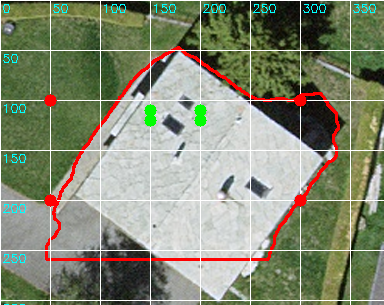
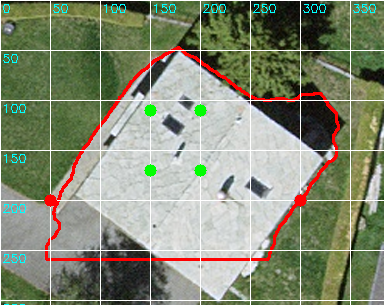
Save local changes before sync

diff --git a/internvl3_points_test.py b/internvl3_points_test.py
@@ -7,26 +7,43 @@ import re
 import cv2
 import numpy as np
 import os
+#!/usr/bin/env python3
+import os
+
+# ============================================================
+# CACHE PATH FIX — must be set before importing transformers
+# ============================================================
+os.environ["HF_HOME"] = "/data/hf_cache"
+os.environ["HUGGINGFACE_HUB_CACHE"] = "/data/hf_cache"
+os.environ["TRANSFORMERS_CACHE"] = "/data/hf_cache"   # backward compat only
+os.environ["TORCH_HOME"] = "/data/torch_cache"
+os.environ["XDG_CACHE_HOME"] = "/data/.cache"
+os.environ["TMPDIR"] = "/data/tmp"
+os.environ["TOKENIZERS_PARALLELISM"] = "false"
+os.environ["SAFETENSORS_FAST_GPU"] = "1"
+
+print("✅ Environment paths set")
+print("HF cache:", os.getenv("HF_HOME"))
+print("Torch cache:", os.getenv("TORCH_HOME"))
+
 
 # ============================================================
 # CONFIGURATION
 # ============================================================
 model_id = "OpenGVLab/InternVL3-8B"
-image_path = "/data/Master-Thesis-GEOAI/Theory/img.png"
+image_path = "/data/Master-Thesis-GEOAI/Theory/img_4.png"
 out_path = "/data/Master-Thesis-GEOAI/outputs/internvl_points.png"
-
 question = (
     "<image>\n"
-    "You are a precise visual inspector. "
-    "Look at the red polygon drawn in this aerial image. "
-    "Output exactly eight 2D pixel coordinates in this JSON format:\n"
-    "{'inside': [[x1, y1], [x2, y2], [x3, y3], [x4, y4]], "
-    "'outside': [[x5, y5], [x6, y6], [x7, y7], [x8, y8]]}\n"
+    "You are a precise visual inspector.\n"
+    "Look at the red polygon in this aerial image.\n"
+    "Output exactly eight 2D pixel coordinates in JSON format like this:\n"
+    "{'inside': [[x1, y1], [x2, y2], [x3, y3], [x4, y4]], 'outside': [[x5, y5], [x6, y6], [x7, y7], [x8, y8]]}\n"
     "Rules:\n"
-    "- Coordinates must be integer pixel values.\n"
-    "- Choose 4 points clearly **inside** the red polygon (on the building roof).\n"
-    "- Choose 4 points clearly **outside** the polygon (ground or surrounding area).\n"
-    "- Do not include any explanations or words — output only the JSON object."
+    "- Each coordinate must be two integers.\n"
+    "- Choose 4 points well distributed **inside** the polygon (on the roof, not clustered).\n"
+    "- Choose 4 points clearly **outside** the polygon (on grass or road, not clustered).\n"
+    "- Do not include explanations or words — output only the JSON object."
 )
 
 

diff --git a/internvl3_test.py b/internvl3_test.py
@@ -1,0 +1,62 @@
+import torch
+from PIL import Image
+import torchvision.transforms as T
+from torchvision.transforms.functional import InterpolationMode
+from transformers import AutoModel, AutoTokenizer
+
+# ============================================================
+#  CONFIGURATION
+# ============================================================
+model_id = "OpenGVLab/InternVL3-8B"
+image_path = "/data/Master-Thesis-GEOAI/Theory/img.png"
+question = (
+    "<image>\nYou are a visual evaluator. "
+    "Does the red polygon precisely match the building in the image? "
+    "Respond strictly in this format:\n"
+    "Answer: [Yes or No]\n"
+    "Reason: [one short sentence explaining why]."
+)
+
+
+# ============================================================
+#  LOAD MODEL
+# ============================================================
+print(f"🔄 Loading model: {model_id}")
+device = "cuda" if torch.cuda.is_available() else "cpu"
+
+model = AutoModel.from_pretrained(
+    model_id,
+    torch_dtype=torch.bfloat16 if torch.cuda.is_available() else torch.float32,
+    low_cpu_mem_usage=True,
+    use_flash_attn=True,
+    trust_remote_code=True
+).eval().to(device)
+
+tokenizer = AutoTokenizer.from_pretrained(model_id, trust_remote_code=True, use_fast=False)
+
+# ============================================================
+#  IMAGE PREPROCESSING
+# ============================================================
+print(f"🖼 Loading image: {image_path}")
+
+transform = T.Compose([
+    T.Lambda(lambda img: img.convert("RGB")),
+    T.Resize((448, 448), interpolation=InterpolationMode.BICUBIC),
+    T.ToTensor(),
+    T.Normalize(mean=(0.485, 0.456, 0.406), std=(0.229, 0.224, 0.225))
+])
+
+image = Image.open(image_path)
+pixel_values = transform(image).unsqueeze(0).to(torch.bfloat16 if torch.cuda.is_available() else torch.float32).to(device)
+
+# ============================================================
+#  INFERENCE
+# ============================================================
+print("🚀 Running inference...")
+generation_config = dict(max_new_tokens=256, do_sample=False)
+
+response = model.chat(tokenizer, pixel_values, question, generation_config)
+print("\n🧠 Model answer:")
+print("----------------------------------------------------")
+print(response)
+print("----------------------------------------------------")

diff --git a/internvl_test.py b/internvl_test.py
@@ -1,0 +1,68 @@
+from PIL import Image
+import torch
+from transformers import AutoProcessor, AutoModel
+
+# ==========================================
+#  InternVL model setup
+# ==========================================
+model_id = "OpenGVLab/InternVL2-4B"   # or "OpenGVLab/InternVL3-8B"
+print(f"🔄 Loading model: {model_id}")
+
+device = "cuda" if torch.cuda.is_available() else "cpu"
+print(f"🧮 Using device: {device}")
+
+# Load processor & model
+processor = AutoProcessor.from_pretrained(model_id, trust_remote_code=True)
+model = AutoModel.from_pretrained(
+    model_id,
+    torch_dtype=torch.float16 if torch.cuda.is_available() else torch.float32,
+    device_map="auto",
+    trust_remote_code=True
+).eval()
+
+# ==========================================
+#  Load image
+# ==========================================
+image_path = "/data/Master-Thesis-GEOAI/Theory/img.png"
+print(f"🖼 Loading image: {image_path}")
+image = Image.open(image_path).convert("RGB")
+
+# ==========================================
+#  Define prompt
+# ==========================================
+prompt = (
+    "You are a visual quality evaluator. "
+    "Task: Decide if the red polygon precisely matches the building in the aerial image. "
+    "Respond strictly in the following format:\n"
+    "Answer: [Yes or No]\n"
+    "Reason: [one short sentence explaining why].\n"
+    "Do not describe the image beyond this."
+)
+
+generation_config = dict(
+    max_new_tokens=40,
+    do_sample=False,
+    temperature=0.1,
+    top_p=0.9
+)
+
+
+# ==========================================
+#  Inference (Chat-style for InternVL2)
+# ==========================================
+print("🚀 Running inference...")
+
+# Run chat directly — handles both text + image inputs
+response = model.chat(
+    processor=processor,
+    image=image,
+    question=prompt,
+    history=None,
+    generation_config=dict(max_new_tokens=80)
+)
+
+
+print("\n🧠 Model answer:")
+print("----------------------------------------------------")
+print(response)
+print("----------------------------------------------------")
